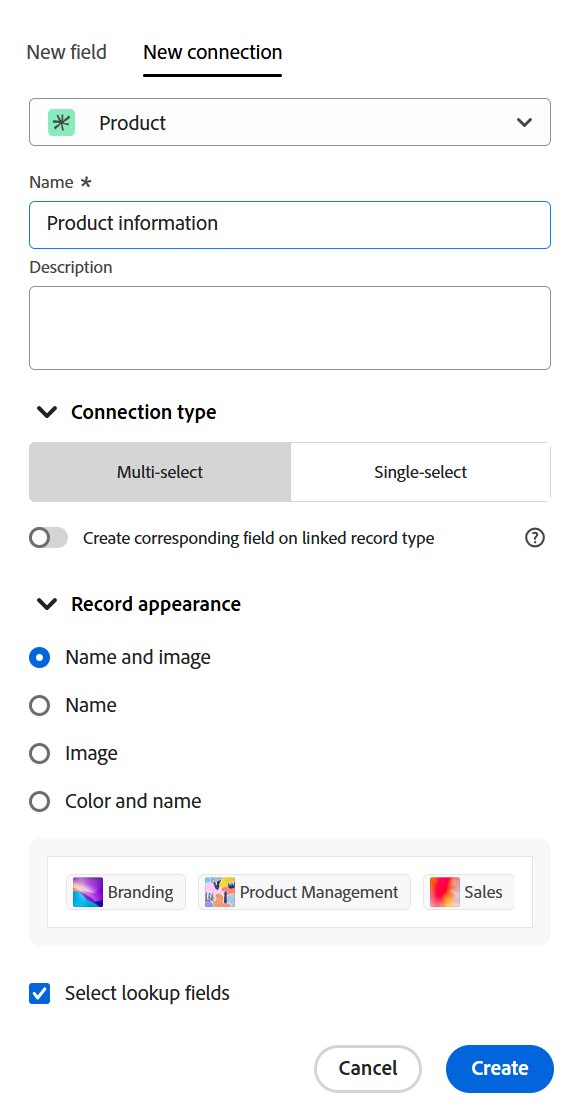
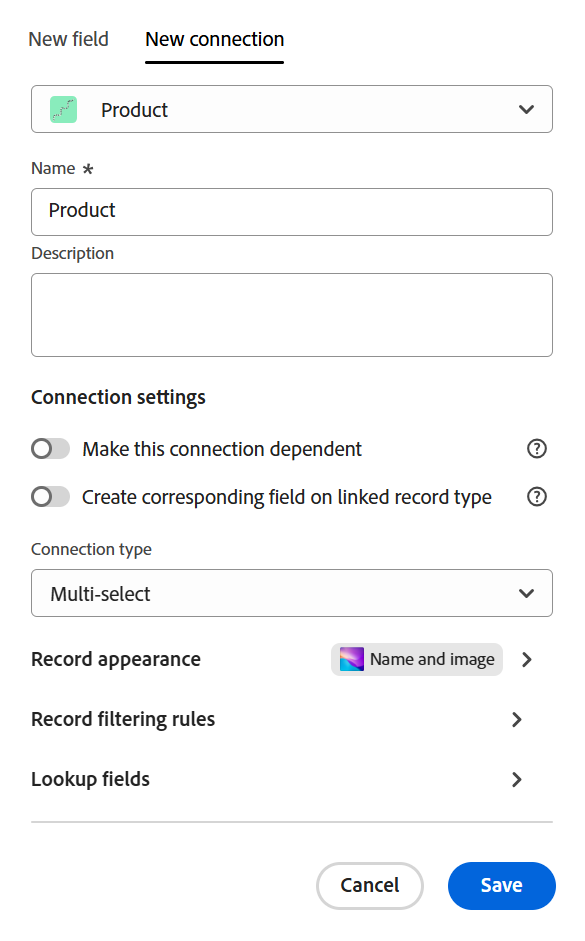
commit-aw-4-sept

diff --git a/help/quicksilver/planning/architecture/example-connect-record-types-and-records.md b/help/quicksilver/planning/architecture/example-connect-record-types-and-records.md
@@ -18,6 +18,10 @@ role_v2:
 ---
 # Example of connecting record types and records
 
+<span class="preview">The information on this page refers to functionality not yet generally available. It is available only in the Preview environment for all customers. After the release to Preview, the same features are also available monthly in the Production environment for customers who enabled fast releases. </span>   
+
+<span class="preview">For information about fast releases, see [Enable or disable fast releases for your organization](/help/quicksilver/administration-and-setup/set-up-workfront/configure-system-defaults/enable-fast-release-process.md). </span>
+
 {{planning-important-intro}}
 
 This article describes an example of the following:
@@ -48,25 +52,42 @@ To do this:
     * **Record type**: Product <!--did they change the casing here?-->
     * **Name**: Give the new field a name. For example, "Product information." This is the name of the linked record field. 
     * **Description**: Add a description for the new field. For example, "These are the Products that I want my Campaigns associated with." The description of the field displays when hovering over the field in the column header. 
+    
+    <div class="preview">
+
+    * **Make this connection dependent**: When enabled and the two connected records display on a third record at the same time, the choices for one record type are dependent on the choices for the other. 
+        
+        For information, see [Manage dependent connections](/help/quicksilver/planning/architecture/manage-dependent-connections.md). 
+    * **Create corresponding field on linked record type**: When enabled, a connection field is also created on the record type you are connected to (Product). 
+
+    </div>
+
     * **Connection type**: Select from the following options:
         * **Many to many**: Users can connect one campaign to several products and one product to several campaigns. 
         * **One to many**: Users can connect one campaign to several products, and one product to one campaign.
         * **Many to one**: Users can connect one campaign to one product, and one product to many campaigns.
         * **One to one**: Users can connect one campaign to one product, and one product to one campaign. 
 
-        >[!NOTE]
-        >
-        >The **Connection type** option is not available when connecting records from different workspaces or when connecting Experience Manager assets or GenStudio Brands. For more information, see [Connected record types overview](/help/quicksilver/planning/architecture/connect-record-types-overview.md).
+    >[!NOTE]
+    >
+    >The **Connection type** option is not available when connecting records from different workspaces or when connecting Experience Manager assets or GenStudio Brands. For more information, see [Connected record types overview](/help/quicksilver/planning/architecture/connect-record-types-overview.md).
         
     * **Record appearance**: Choose from the following options:
         * **Name and image**: Displays the name and the thumbnail or the icon of the connected records. This is selected by default.
         * **Name**: Displays only the name of the connected records.
         * **Image**: Displays only the thumbnail or the icon of the connected records.
-    * **Select lookup fields**: If you leave this option selected, the **Add lookup fields** box opens next, to allow you to link Product fields with the Campaign record type. You can click **Skip** to skip this step and add Product fields later. 
+
+        <div class="preview">
+
+        * **Color and name**: Displays only the color and the name of the connected records
+
+        </div>
+
+    * <span class="preview">**Lookup fields**: Expand this option to also connect lookup fields from the connected records. </span>The **Add lookup fields** box opens next, to allow you to link Product fields with the Campaign record type. You can click **Skip** to skip this step and add Product fields later. 
 
         ![New connection with product record type](assets/new-connection-with-product-record-type.png)
 
-1. (Conditional) If you selected the **Select lookup fields option** in the previous step, from the list of fields associated with the **Product** record type, click the **+** icon for the **Budget** field, then click **Add fields**. This creates a field called **Budget (from Product information)**, which is the name of the linked field. Any information for the Product Budget displays in this field for the Campaign records. 
+1. (Conditional) If you opened the **Add lookup fields** box, click the **+** icon for the **Budget** field, then click **Add fields**. This creates a field called **Budget (from Product information)**, which is the name of the linked field. Any information for the Product Budget displays in this field for the Campaign records. 
 
     ![Add fields for budget field for connection with record type](assets/add-fields-for-budget-field-for-connector-with-record-type.png)
 

diff --git a/help/quicksilver/planning/planning-and-genstudio-integration/manage-gen-studio-workspace-in-planning.md b/help/quicksilver/planning/planning-and-genstudio-integration/manage-gen-studio-workspace-in-planning.md
@@ -280,10 +280,10 @@ Old:
    </table> 
 
 * Updating the workspace configuration, record types, views, and fields for a GenStudio workspace is identical with updating a Workfront Planning workspace with its elements. 
-<!--
-Is this just preview?? * You can build hierarchies for the record types in the GenStudio workspace. For more information, see [Create workspace hierarchies](/help/quicksilver/planning/architecture/create-workspace-hierarchies.md).
-* You cannot include GenStudio Brands in a hierarchy.
--->
+* You can build hierarchies for the record types in the GenStudio workspace. 
+
+   For more information, see [Create workspace hierarchies](/help/quicksilver/planning/architecture/create-workspace-hierarchies.md).
+* You can connect a GenStudio record type to GenStudio BRands, but you cannot include GenStudio Brands in a hierarchy.
 
 <!--
 ## Manage GenStudio workspace from Workfront Planning
@@ -498,8 +498,7 @@ CAN YOU DO THIS??
    * Sort by it
    * Hide it 
    * Edit its settings
-   
-   <!--* Delete it - not possible now, per Iskuhi; the link is there but it will generate an error-->
+   * Delete it 
 
       <!--GenStudio-native fields are note removed from GenStudio. -->
 
@@ -508,16 +507,9 @@ CAN YOU DO THIS??
       >* You can edit the configuration of a GenStudio field only when you have Manage permissions in GenStudio.
       >* You cannot delete a GenStudio field. 
 
-<!--
-Is this just Preview?? Or direct to Prod?? 
-
 ## Create workspace hierarchies in the GenStudio workspace
 
 Creating hierarchies in the GenStudio workspace is similar to creating hierarchies in any workspace. 
 
->[!NOTE]
->
->You cannot add GenStudio Brands to a hierarchy in the GenStudio workspace.
-
 For information, see [Create workspace hierarchies](/help/quicksilver/planning/architecture/create-workspace-hierarchies.md)
--->
+

diff --git a/help/quicksilver/planning/architecture/connect-record-types-overview.md b/help/quicksilver/planning/architecture/connect-record-types-overview.md
@@ -194,6 +194,13 @@ For information about you connect record types, see [Connect record types](/help
     
     * You must connect record types to be able to create hierarchies in Workfront Planning. When record type connections don't exist, they are automatically created when you create a hierarchy. For information, see [Create workspace hierarchies](/help/quicksilver/planning/architecture/create-workspace-hierarchies.md).
 
+    * If your organization purchased an Adobe GenStudio for Performance Marketing package, the following scenarios exist:
+    
+        * You cannot connect to GenStudio record types from Planning record types. 
+        * You can connect GenStudio record types in the GenStudio workspace. 
+        * You can connect GenStudio Brands from GenStudio record types and from Planning record types. 
+        * You cannot include GenStudio Brands in a hierarchy. 
+
     <div class="preview">
 
     * You can make a connection field dependent on the corresponding connected field from the connected record type. When the two fields display on a third record type, the selections available for one field depend on the selections from the other field. 

diff --git a/help/quicksilver/planning/architecture/hierarchy-and-breadcrumb-overview.md b/help/quicksilver/planning/architecture/hierarchy-and-breadcrumb-overview.md
@@ -80,7 +80,13 @@ The following are benefits of using hierarchies in your workspaces:
     * When connected record types are part of hierarchies, you can connect one record from a child record type to up to 10 records from a parent record type.
 
         For example, if you create a hierarchy between Campaigns as the parent and Persona as the child record, you can connect the same persona to up to 10 campaigns. 
+    * If your organization purchased an Adobe GenStudio for Performance Marketing package, the following scenarios exist:
     
+        * You cannot connect to GenStudio record types from Planning record types. 
+        * You can connect GenStudio record types in the GenStudio workspace. 
+        * You can connect GenStudio Brands to GenStudio record types and Planning record types. 
+        * You cannot include GenStudio Brands in a hierarchy. 
+
 ## Considerations when viewing breadcrumbs
 
 When you create hierarchies between record types, they generate breadcrumbs for records that belong to those record types. 

diff --git a/help/quicksilver/manage-work/projects/create-projects/create-project-from-template.md b/help/quicksilver/manage-work/projects/create-projects/create-project-from-template.md
@@ -196,7 +196,7 @@ You can create a project from the Projects area in the Main Menu, or from the Pr
       >
       >For more information, see [Document management overview for projects and related objects](/help/quicksilver/manage-work/projects/manage-projects/manage-documents-on-projects.md). 
    
-   1. (Conditional and optional) If you selected a legacy storage template, select the Create this project on Adobe cloud storage setting in the lower-right corner of the New project box. This will create an Adobe cloud storage project. Documents and document folders from the template will not be added to the project.      
+   1. (Conditional and optional) If you selected a legacy storage template, select the **Create this project on Adobe cloud storage** setting in the lower-right corner of the New project box. This will create an Adobe cloud storage project. Documents and document folders from the template will not be added to the project.      
    
    1. Review the following template details on the right:
    

diff --git a/help/quicksilver/planning/architecture/connect-record-types.md b/help/quicksilver/planning/architecture/connect-record-types.md
@@ -284,6 +284,8 @@ Old:
         >* [Create and manage a request form in Adobe Workfront Planning](/help/quicksilver/planning/requests/create-request-form.md)
         >* [Submit Adobe Workfront Planning requests to create records](/help/quicksilver/planning/requests/submit-requests.md). 
 
+        <!--see if they fixed the UI here and update the screen shot-->
+
         ![Original request connection selection](assets/original-request-connection-selection.png)
 
 
